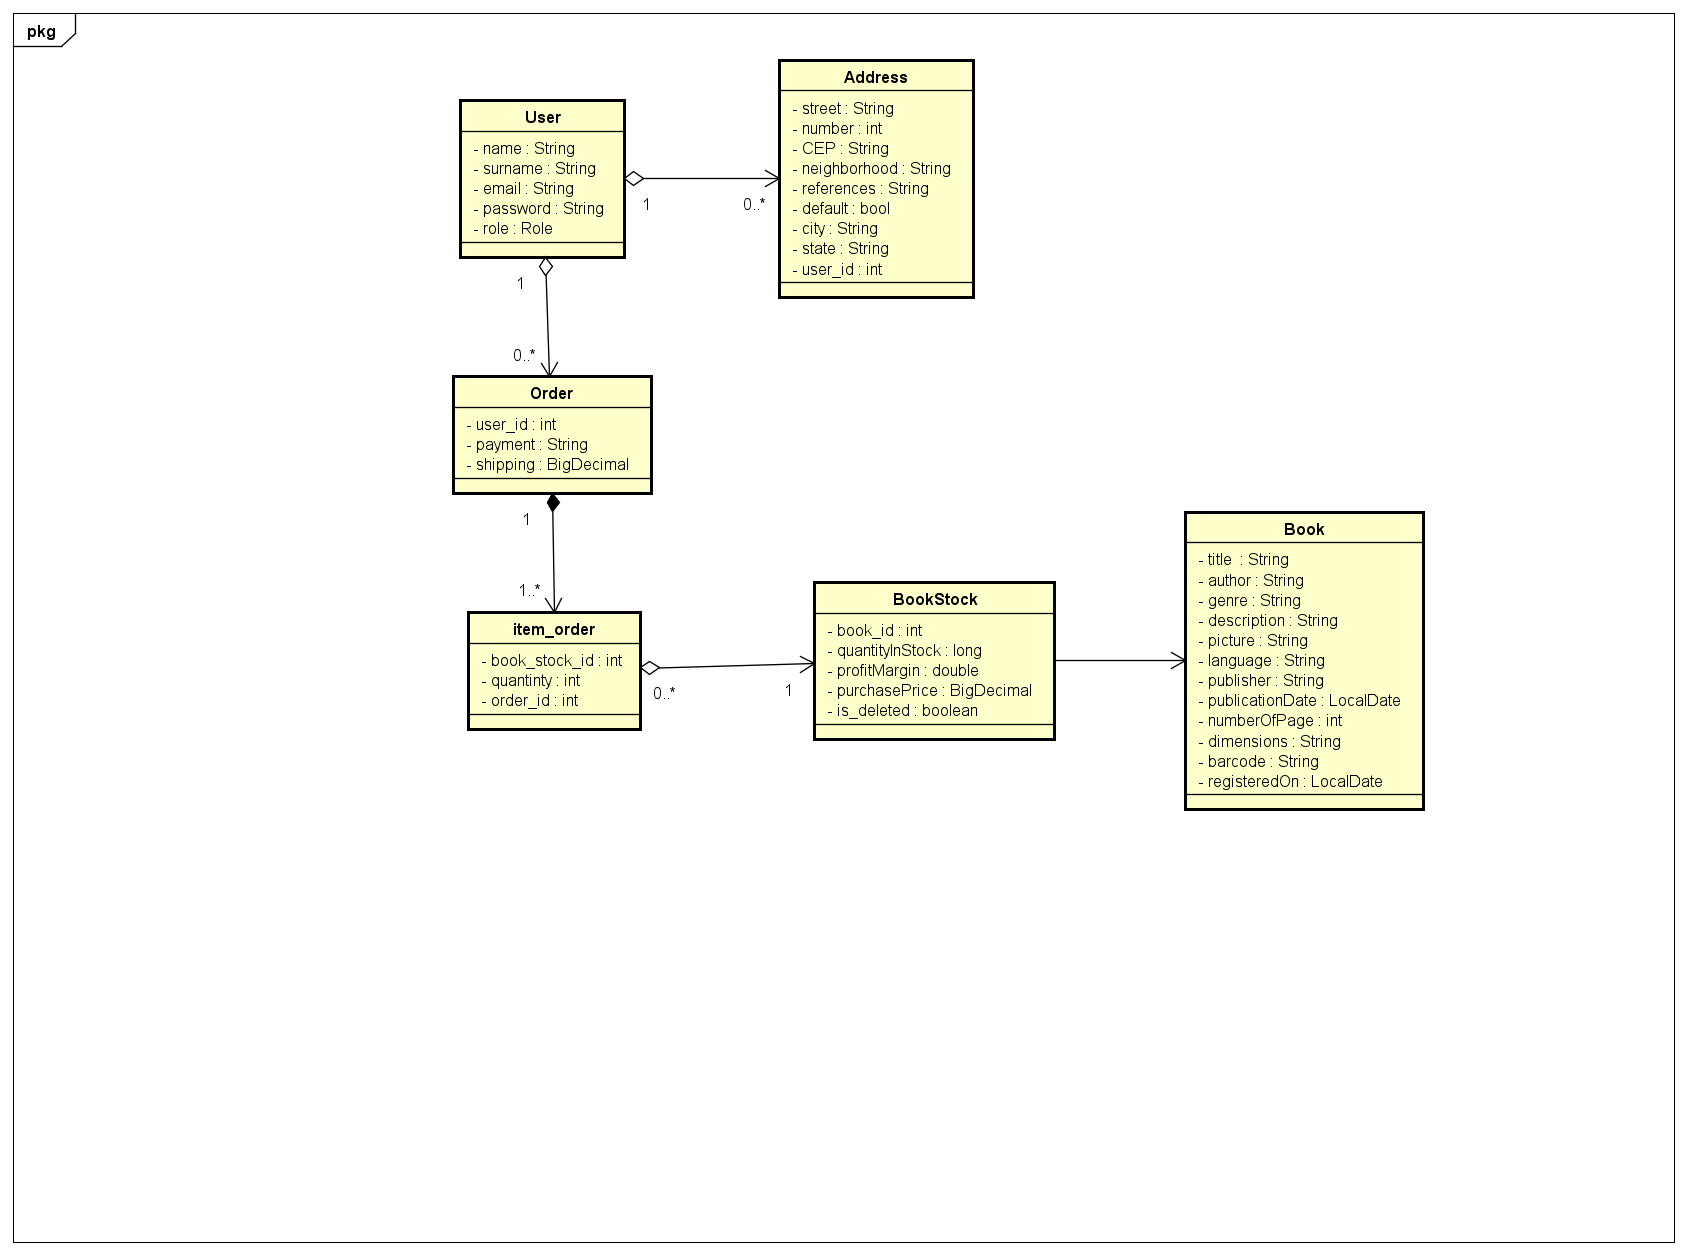
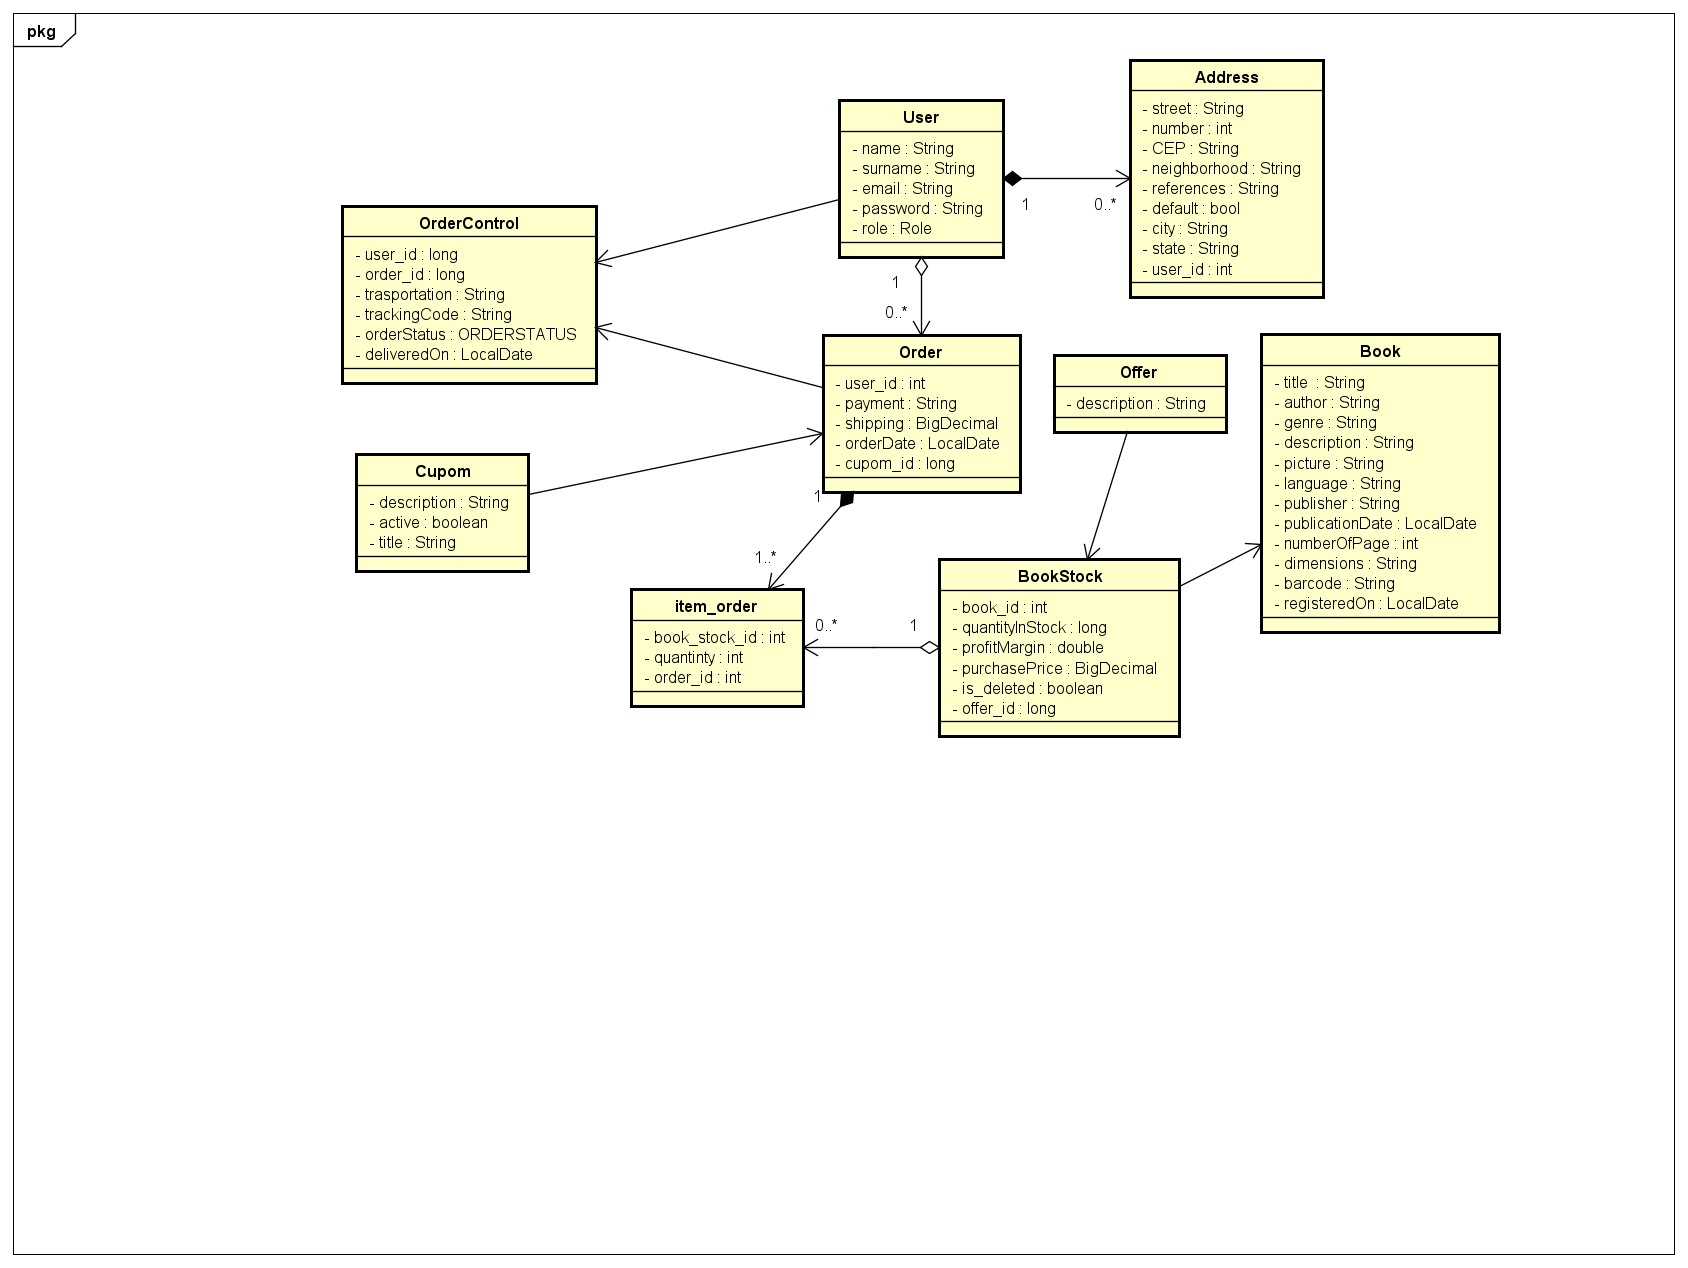
feat: alter user delete and class diagram

Changed region(s): [[0.1848, 0.0311, 0.8934, 0.6521]]

diff --git a/src/main/java/com/renigomes/api_livraria/user/service/UserService.java b/src/main/java/com/renigomes/api_livraria/user/service/UserService.java
@@ -1,5 +1,7 @@
 package com.renigomes.api_livraria.user.service;
 
+import com.renigomes.api_livraria.purchase_order.model.PurchaseOrder;
+import com.renigomes.api_livraria.purchase_order.service.OrderService;
 import com.renigomes.api_livraria.security.service.TokenService;
 import com.renigomes.api_livraria.user.DTO.PasswordEditReqDto;
 import com.renigomes.api_livraria.user.DTO.UserEditReqDTO;
@@ -28,6 +30,7 @@ public class UserService {
     private ModelMapper modelMapper;
     private TokenService tokenService;
     private PasswordEncoder passwordEncoder;
+    private final OrderService orderService;
 
     public UserDetails findByEmailAuth(String email){
         return userRepository.findByEmail(email);
@@ -46,6 +49,9 @@ public class UserService {
     @Transactional
     public void deleteUser(HttpServletRequest request){
        User user = extractUserByToker(request);
+        PurchaseOrder purchaseOrder = orderService.findOrderByUser(user);
+        purchaseOrder.setUser(null);
+        orderService.save(purchaseOrder);
        userRepository.delete(user);
     }
 

diff --git a/src/main/java/com/renigomes/api_livraria/purchase_order/repository/PurOrderRepository.java b/src/main/java/com/renigomes/api_livraria/purchase_order/repository/PurOrderRepository.java
@@ -1,7 +1,9 @@
 package com.renigomes.api_livraria.purchase_order.repository;
 
 import com.renigomes.api_livraria.purchase_order.model.PurchaseOrder;
+import com.renigomes.api_livraria.user.model.User;
 import org.springframework.data.jpa.repository.JpaRepository;
 
 public interface PurOrderRepository extends JpaRepository<PurchaseOrder, Long> {
+     PurchaseOrder findByUser(User user);
 }

diff --git a/src/main/java/com/renigomes/api_livraria/purchase_order/service/OrderService.java b/src/main/java/com/renigomes/api_livraria/purchase_order/service/OrderService.java
@@ -45,4 +45,13 @@ public class OrderService {
                 });
         return new RespIdDto(finalPurOrder.getId());
     }
+
+    @Transactional
+    public PurchaseOrder save(PurchaseOrder purchaseOrder) {
+        return purOrderRepository.save(purchaseOrder);
+    }
+
+    public PurchaseOrder findOrderByUser(User user) {
+        return purOrderRepository.findByUser(user);
+    }
 }

diff --git a/src/main/java/com/renigomes/api_livraria/user/model/User.java b/src/main/java/com/renigomes/api_livraria/user/model/User.java
@@ -28,8 +28,6 @@ public class User implements UserDetails {
     private Role role;
     @OneToMany(mappedBy = "user", cascade = CascadeType.ALL, orphanRemoval = true)
     private List<Address> addresses;
-    @OneToMany(mappedBy = "user", cascade = CascadeType.ALL, orphanRemoval = true)
-    private List<PurchaseOrder> purchaseOrders;
 
 
 
